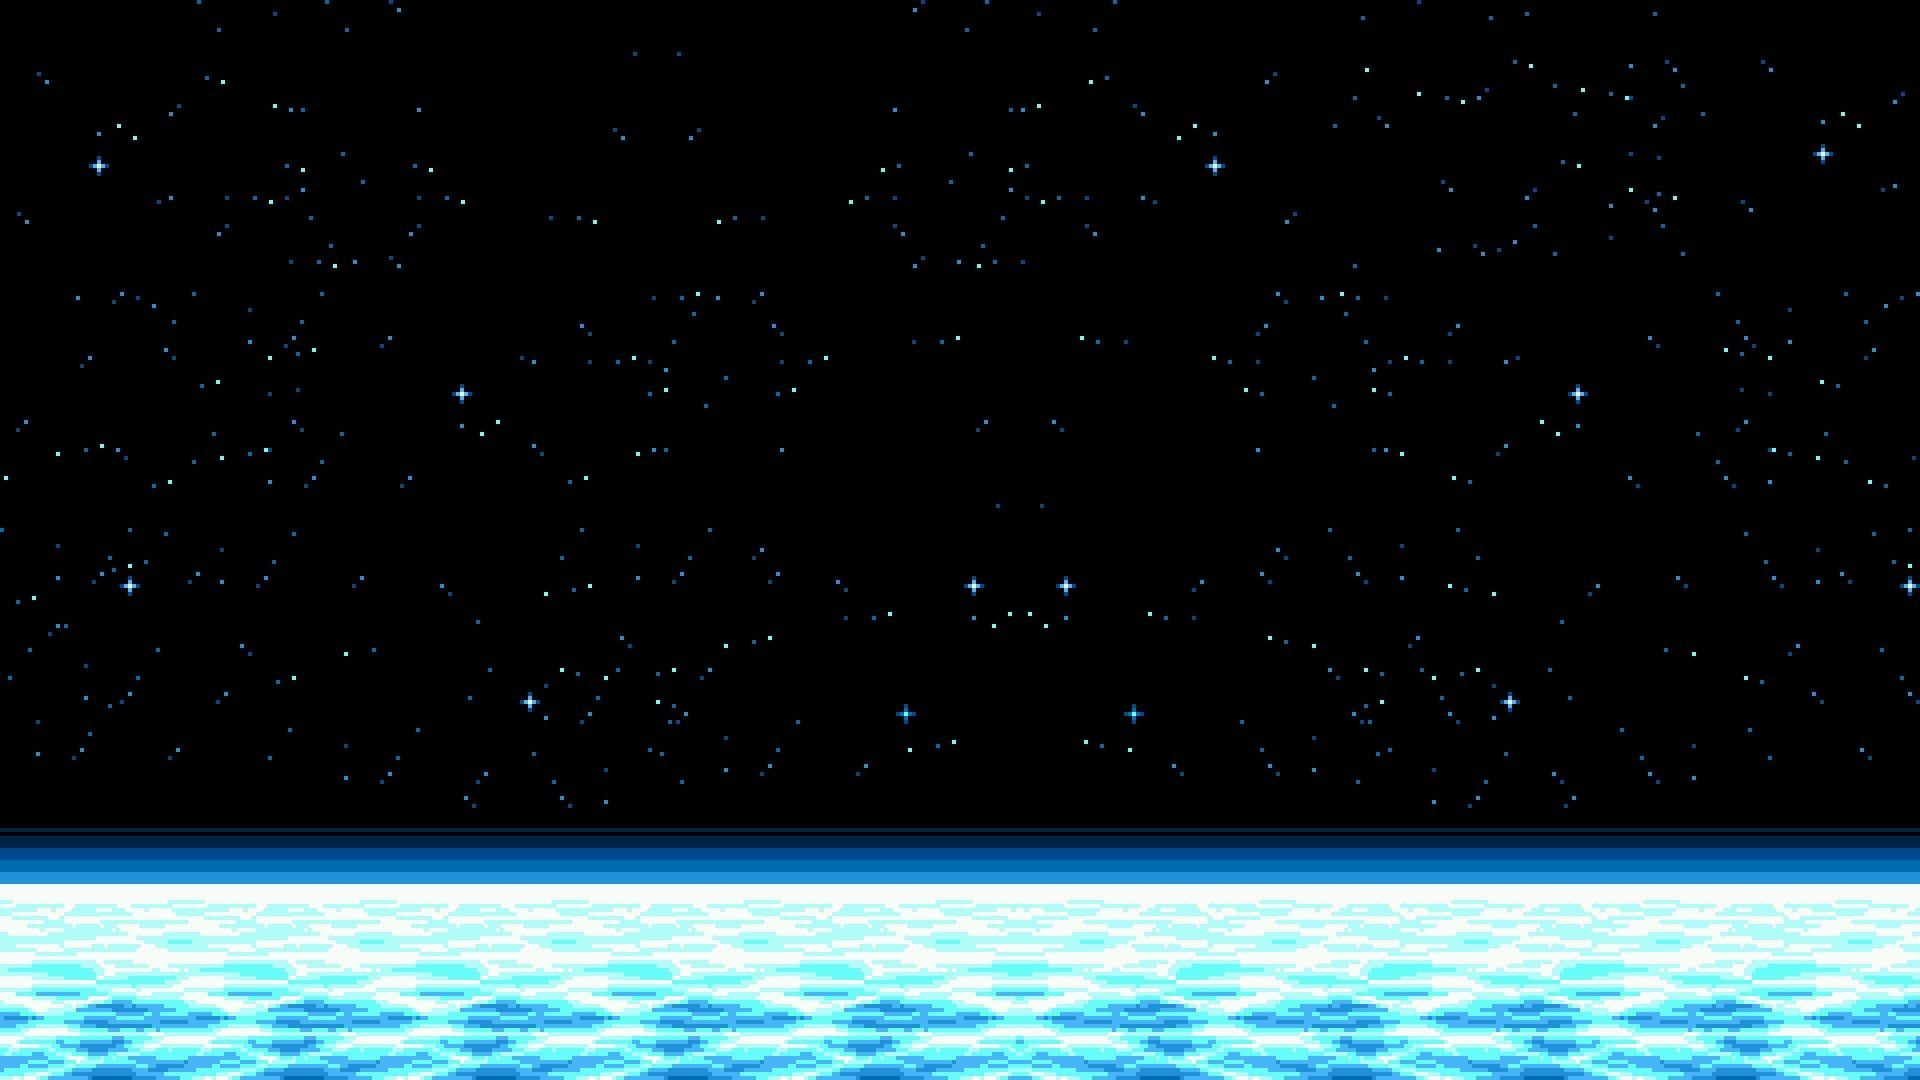
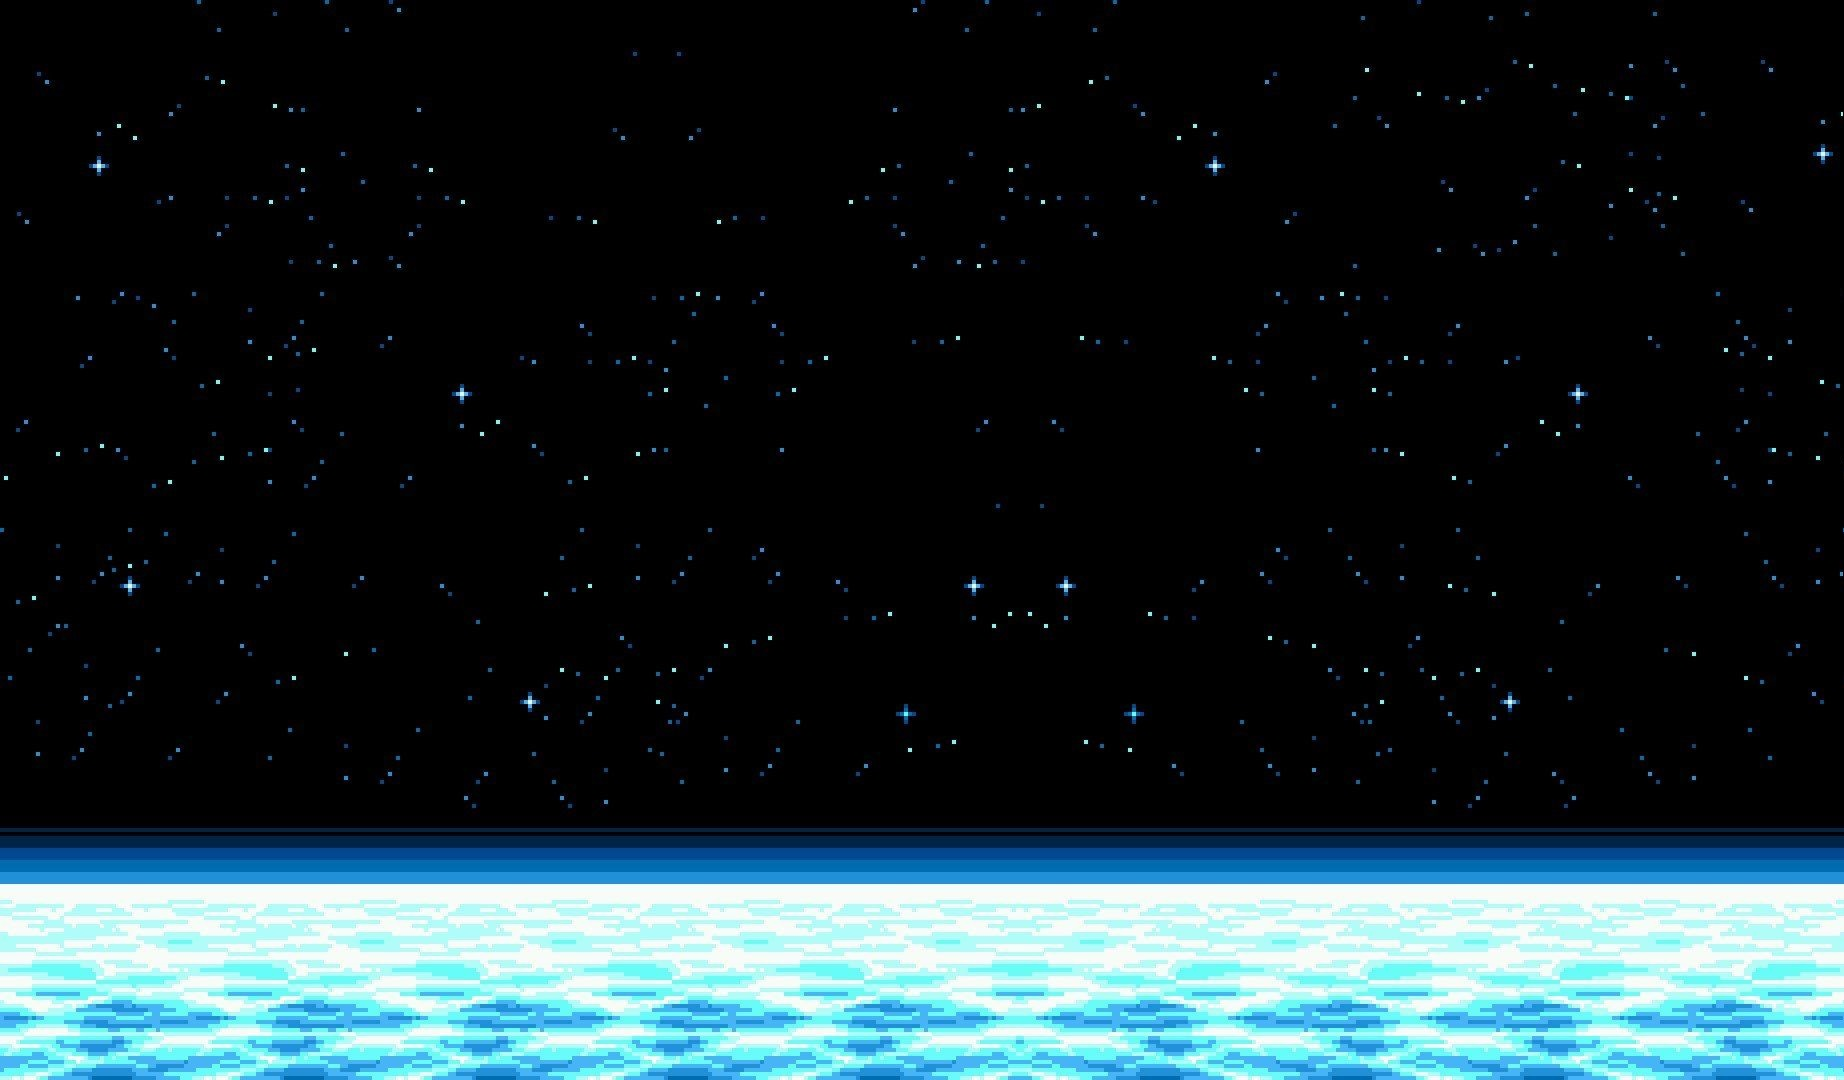
Added background animation

diff --git a/src/main/GraphicManager.java b/src/main/GraphicManager.java
@@ -9,12 +9,9 @@ import javafx.scene.control.Label;
 import javafx.scene.image.Image;
 import javafx.scene.image.ImageView;
 import javafx.scene.layout.Pane;
-import javafx.scene.layout.StackPane;
 import javafx.scene.paint.Color;
-import javafx.scene.shape.Rectangle;
 import javafx.scene.text.Font;
 import javafx.scene.text.Text;
-import javafx.scene.text.TextAlignment;
 import javafx.stage.Stage;
 import main.classes.*;
 import main.classes.Character;
@@ -29,7 +26,7 @@ public class GraphicManager {
 
     private Stage stage;
     private Pane pane;
-
+    private double time;
     private AnimationTimer animationTimer;
 
     private List<Node> toAdd;
@@ -41,6 +38,8 @@ public class GraphicManager {
 
     private Text playerLife;
     private Text playerScore;
+    private ImageView background1;
+    private ImageView background2;
 
     private Character player;
 
@@ -69,9 +68,13 @@ public class GraphicManager {
             this.stage.show();
         }
 
-        ImageView background = getImage(FilesName.BACKGROUND, 0, 0, pane.getWidth(), pane.getHeight());
-        add(background);
-        background.toBack();
+        background1 = getImage(FilesName.BACKGROUND, 0, 0, pane.getWidth(), pane.getHeight());
+        add(background1);
+        background1.toBack();
+
+        background2 = getImage(FilesName.BACKGROUND, pane.getWidth(), 0, pane.getWidth(), pane.getHeight());
+        add(background2);
+        background2.toBack();
 
         scene.setCursor(Cursor.NONE);
 
@@ -96,6 +99,10 @@ public class GraphicManager {
         this.playerLife.setFont(Font.loadFont(ResourcesManager.getInstance().getFileStream(FilesName.FONT), 20));
         add(playerScore);
         add(playerLife);
+    }
+
+    public void setTime(double time) {
+        this.time = time;
     }
 
     public void setPlayer(Character player) {
@@ -228,14 +235,14 @@ public class GraphicManager {
     }
 
     public void update(){
-//        if (Math.random() < 0.05) {
-//            double rand = Math.random();
-//            Sprite star = new Sprite(rand * 0.2, rand * 10, SpriteType.STAR);
-//            star.getSkin().setOpacity(0.5);
-//            star.setMovingXcoefficient(-1);
-//            star.setPosition(getRandomSpawnpoint());
-//            add(star);
-//        }
+        background1.setX(background1.getX() - 2);
+        if(background1.getX() <= (-pane.getWidth())){
+            background1.setX(pane.getWidth());
+        }
+        background2.setX(background2.getX() - 2);
+        if(background2.getX() <= (-pane.getWidth())){
+            background2.setX(pane.getWidth());
+        }
 
         pane.getChildren().forEach(node -> {
             if(node instanceof Sprite){
@@ -306,6 +313,8 @@ public class GraphicManager {
         imageView.setImage(image);
         imageView.setFitWidth(imageView.getImage().getWidth());
         imageView.setFitHeight(imageView.getImage().getHeight());
+        imageView.setX(x);
+        imageView.setY(y);
         return imageView;
     }
 

diff --git a/src/main/GameManager.java b/src/main/GameManager.java
@@ -45,6 +45,7 @@ public class GameManager {
             public void run() {
                 update();
                 time += GraphicManager.FRAME_TIME;
+                graphicManager.setTime(time);
             }
         },0,Math.round(GraphicManager.FRAME_TIME*1000));
     }
